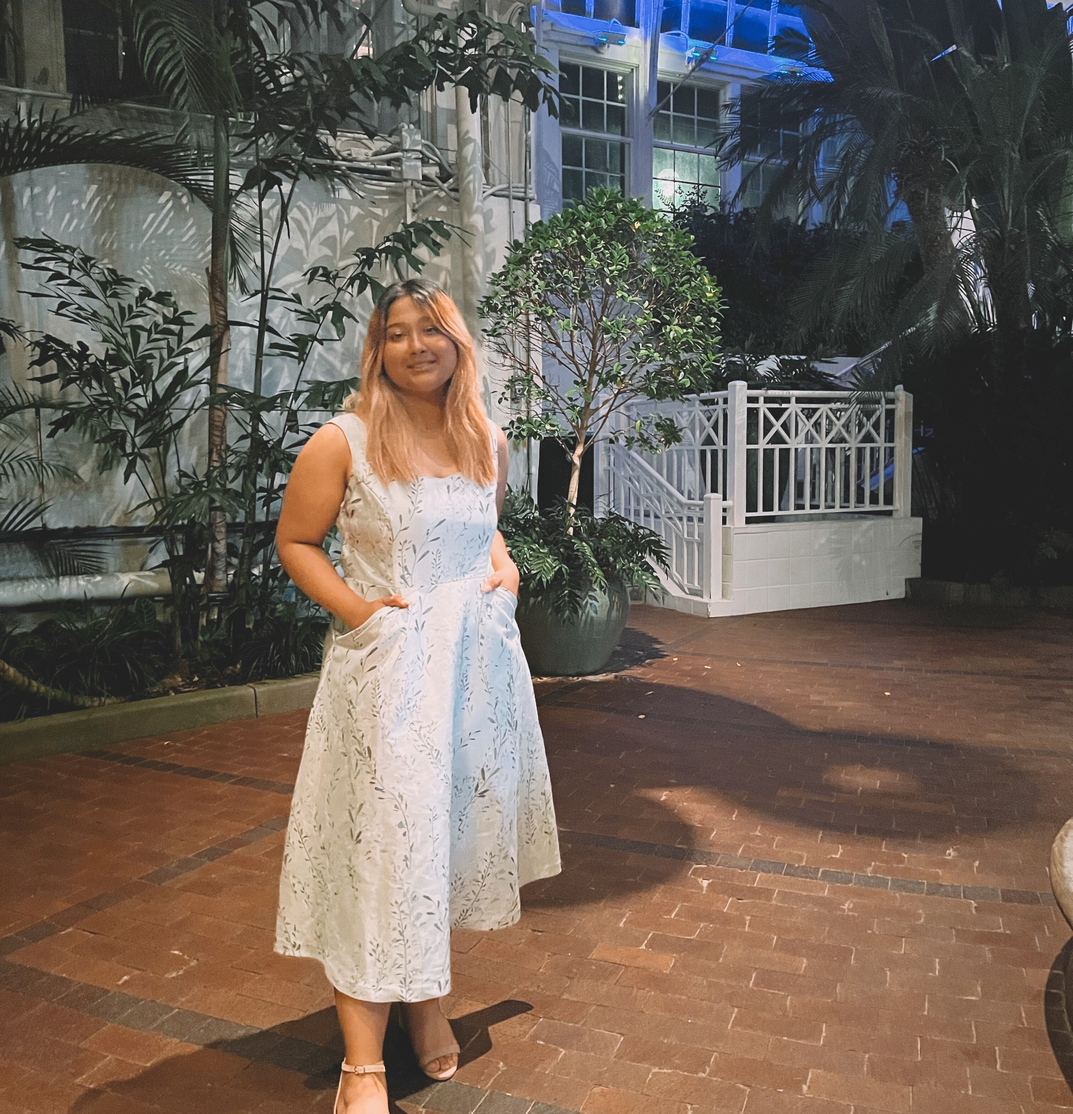
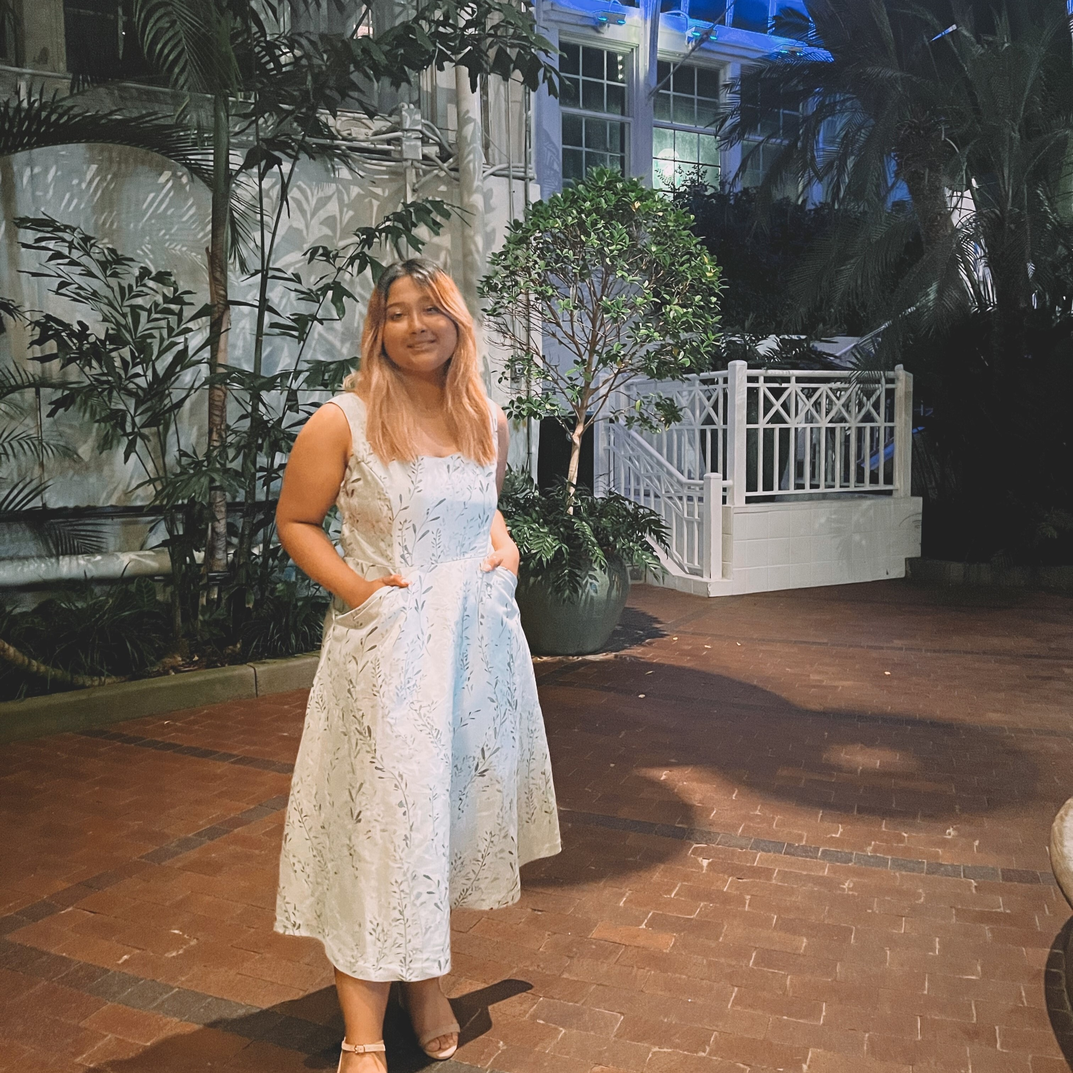
image resizing

diff --git a/mock_contact.html b/mock_contact.html
@@ -434,7 +434,7 @@
         <!-- Co-Company Relations Coordinator: Grace -->
         <div class="col-xl-3 col-md-6 mb-4">
           <div class="card border-0 shadow">
-            <img src="img/exec2023/grace.jpg" class="card-img-top" alt="..." data-toggle="modal" data-target="#graces-modal">
+            <img src="img/exec2023/grace1.png" class="card-img-top" alt="..." data-toggle="modal" data-target="#graces-modal">
             <div class="card-body text-center">
               <h5 class="card-title mb-0">Company Relations Coordinator</h5>
               <div class="card-text text-black-50">Grace Jiang</div>
